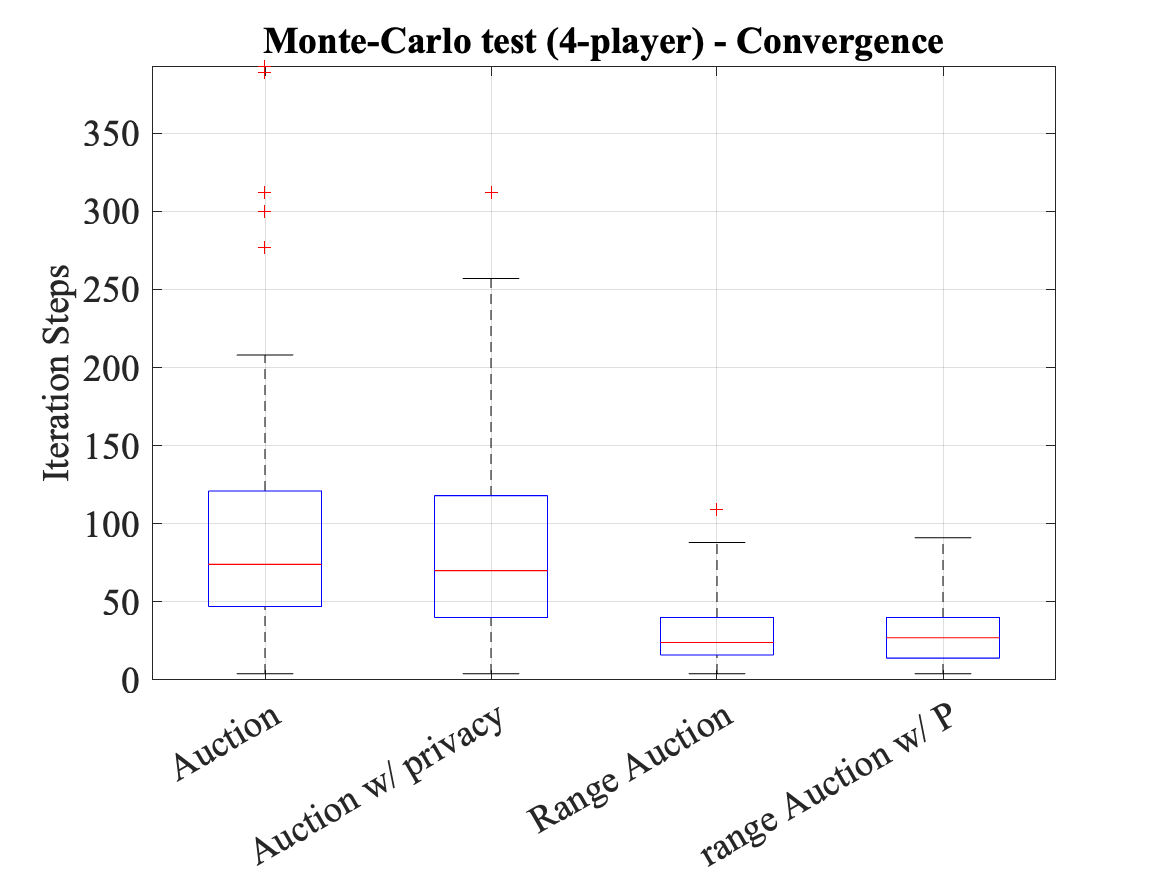
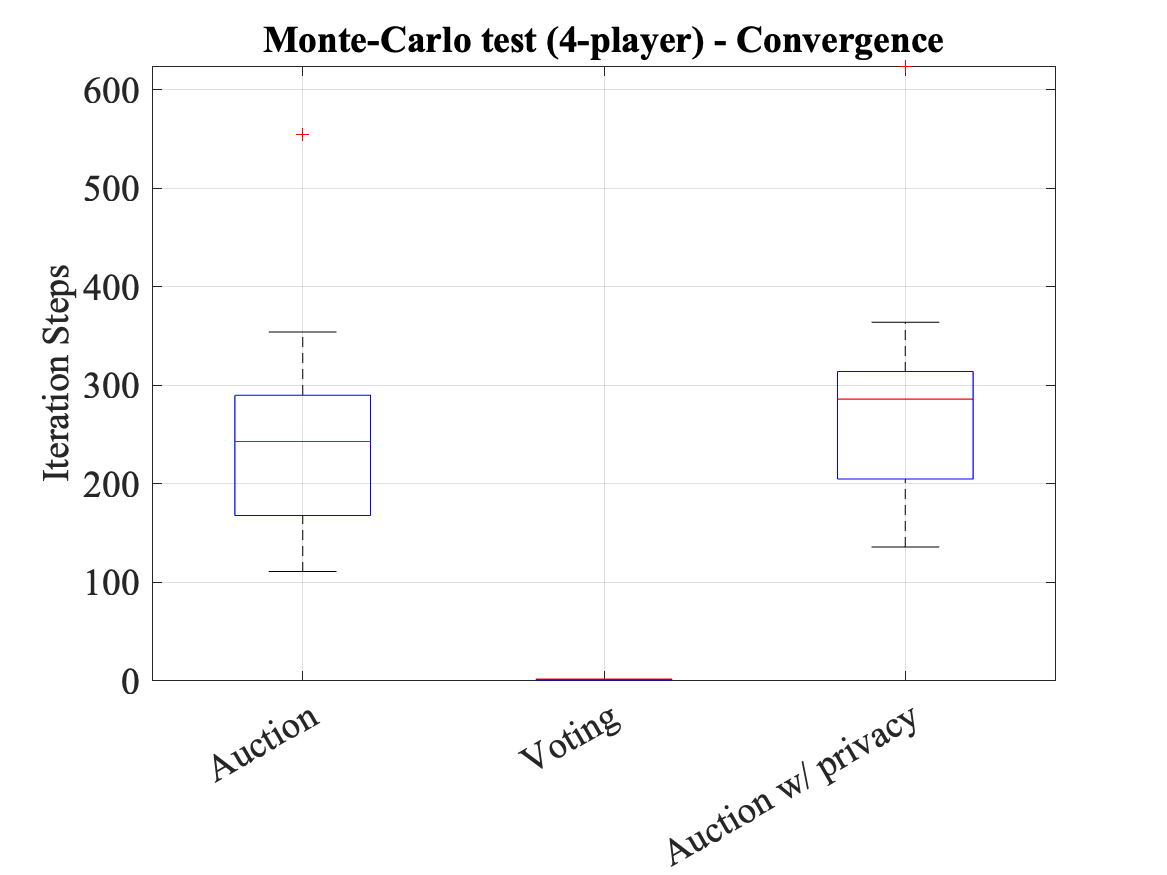
analysis

diff --git a/Analysis/MC_multi_analysis.m b/Analysis/MC_multi_analysis.m
@@ -7,6 +7,9 @@ count2 = data2.Count;
 data3 = load("MC_3p.mat");
 count3 = data3.Count;
 
+data4 = load("MC_5p.mat");
+count4 = data4.Count;
+
 data1 = data1.Record;
 data1 = cell2mat(data1);
 
@@ -16,16 +19,20 @@ data2 = cell2mat(data2);
 data3 = data3.Record;
 data3 = cell2mat(data3);
 
+data4 = data4.Record;
+data4 = cell2mat(data4);
+
 count1 = cell2mat(count1);
 count2 = cell2mat(count2);
 count3 = cell2mat(count3);
+count4 = cell2mat(count4);
 
-data = [data1;data2;data3];
-count = [count1;count2;count3];
+data = [data1;data2;data3;data4];
+count = [count1;count2;count3;count4];
 
 % Filter
-data = data([1 3 4 5],:);
-count = count([1 3 4 5],:);
+data = data([1 3 end-1 end],:);
+count = count([1 3 end-1 end],:);
 
 figure(2)
 clf

diff --git a/Analysis/MC_analysis.m b/Analysis/MC_analysis.m
@@ -1,4 +1,4 @@
-data = load("MC.mat");
+data = load("MC_5p.mat");
 count = data.Count;
 
 data = data.Record;
